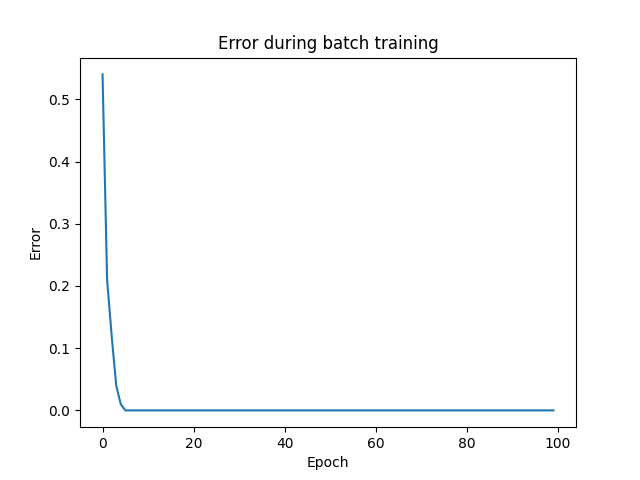
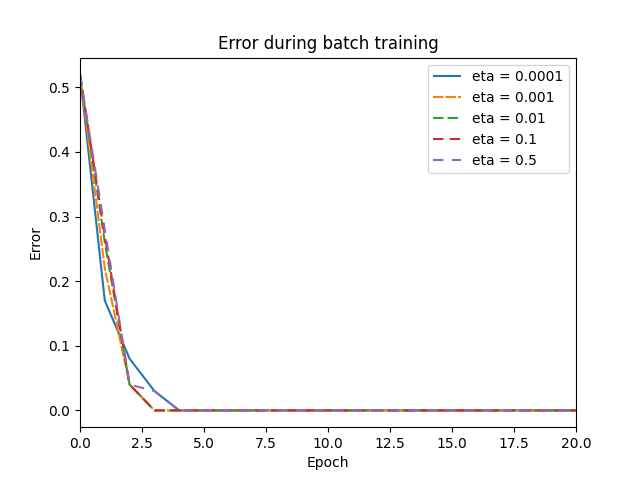
plotted error for different learning rates

diff --git a/src/main.py b/src/main.py
@@ -80,14 +80,16 @@ def generate_data(num_examples):
         writer = csv.writer(f2)
         writer.writerows(data[NUM_TRAIN:])
 
-def plotError(err, type):
+def plotError(err, type, eta):
     fig = plt.figure()
-    plt.plot(range(EPOCHS), err)
-    plt.xlabel('Epoch')
-    plt.ylabel('Error')
-    # plt.xticks(range(NUM_SPLITS))
-    plt.title('Error during ' + type + ' training')
-    #plt.legend()
+    for i in range(len(err)):
+        print(err[i])
+        plt.plot(range(EPOCHS), err[i], label="eta = " +str(eta[i]), linestyle="--", dashes=(5, i))
+        plt.xlabel('Epoch')
+        plt.ylabel('Error')
+        plt.xlim([0, 20])
+        plt.title('Error during ' + type + ' training')
+        plt.legend()
     fig.savefig("figures/"+type+"/error_plot.png")
     plt.clf()
 
@@ -125,24 +127,33 @@ def main():
 
     weights = np.random.uniform(-10, 10, size=(3, 1))
 
+    eta = [0.0001, 0.001, 0.01, 0.1, 0.5]
+    
     err_inc = []
-    percep_inc = Perceptron(train_data, test_data, weights)
-    for epoch in range(EPOCHS):
-        err_inc.append(percep_inc.incremental_update_weights(0.1))
-        if (epoch == 4 or epoch == 9 or epoch == 49 or epoch == 99):
-            plotDecSurf(epoch, percep_inc.weights, percep_inc.train, "incremental")
-
-    plotError(err_inc, "incremental")
-
     err_batch = []
-    percep_batch = Perceptron(train_data, test_data, weights)
-    for epoch in range(EPOCHS):
-        err_batch.append(percep_batch.batch_update_weights(0.1))
-        if (epoch == 4 or epoch == 9 or epoch == 49 or epoch == 99):
-            plotDecSurf(epoch, percep_batch.weights, percep_batch.train, "batch")
+    for i in range(len(eta)):
+        err = []
+        percep_inc = Perceptron(train_data, test_data, weights)
+        for epoch in range(EPOCHS):
+            err.append(percep_inc.incremental_update_weights(eta[i]))
+            if eta == 0.1:
+                if (epoch == 4 or epoch == 9 or epoch == 49 or epoch == 99):
+                    plotDecSurf(epoch, percep_inc.weights, percep_inc.train, "incremental")
+        
+        err_inc.append(err)
+        
+        err = []
+        percep_batch = Perceptron(train_data, test_data, weights)
+        for epoch in range(EPOCHS):
+            err.append(percep_batch.batch_update_weights(eta[i]))
+            if eta == 0.1:
+                if (epoch == 4 or epoch == 9 or epoch == 49 or epoch == 99):
+                    plotDecSurf(epoch, percep_batch.weights, percep_batch.train, "batch")
 
+        err_batch.append(err)
 
-    plotError(err_batch, "batch")
+    plotError(err_inc, "incremental", eta)
+    plotError(err_batch, "batch", eta)
 
 
 if __name__ == "__main__":
